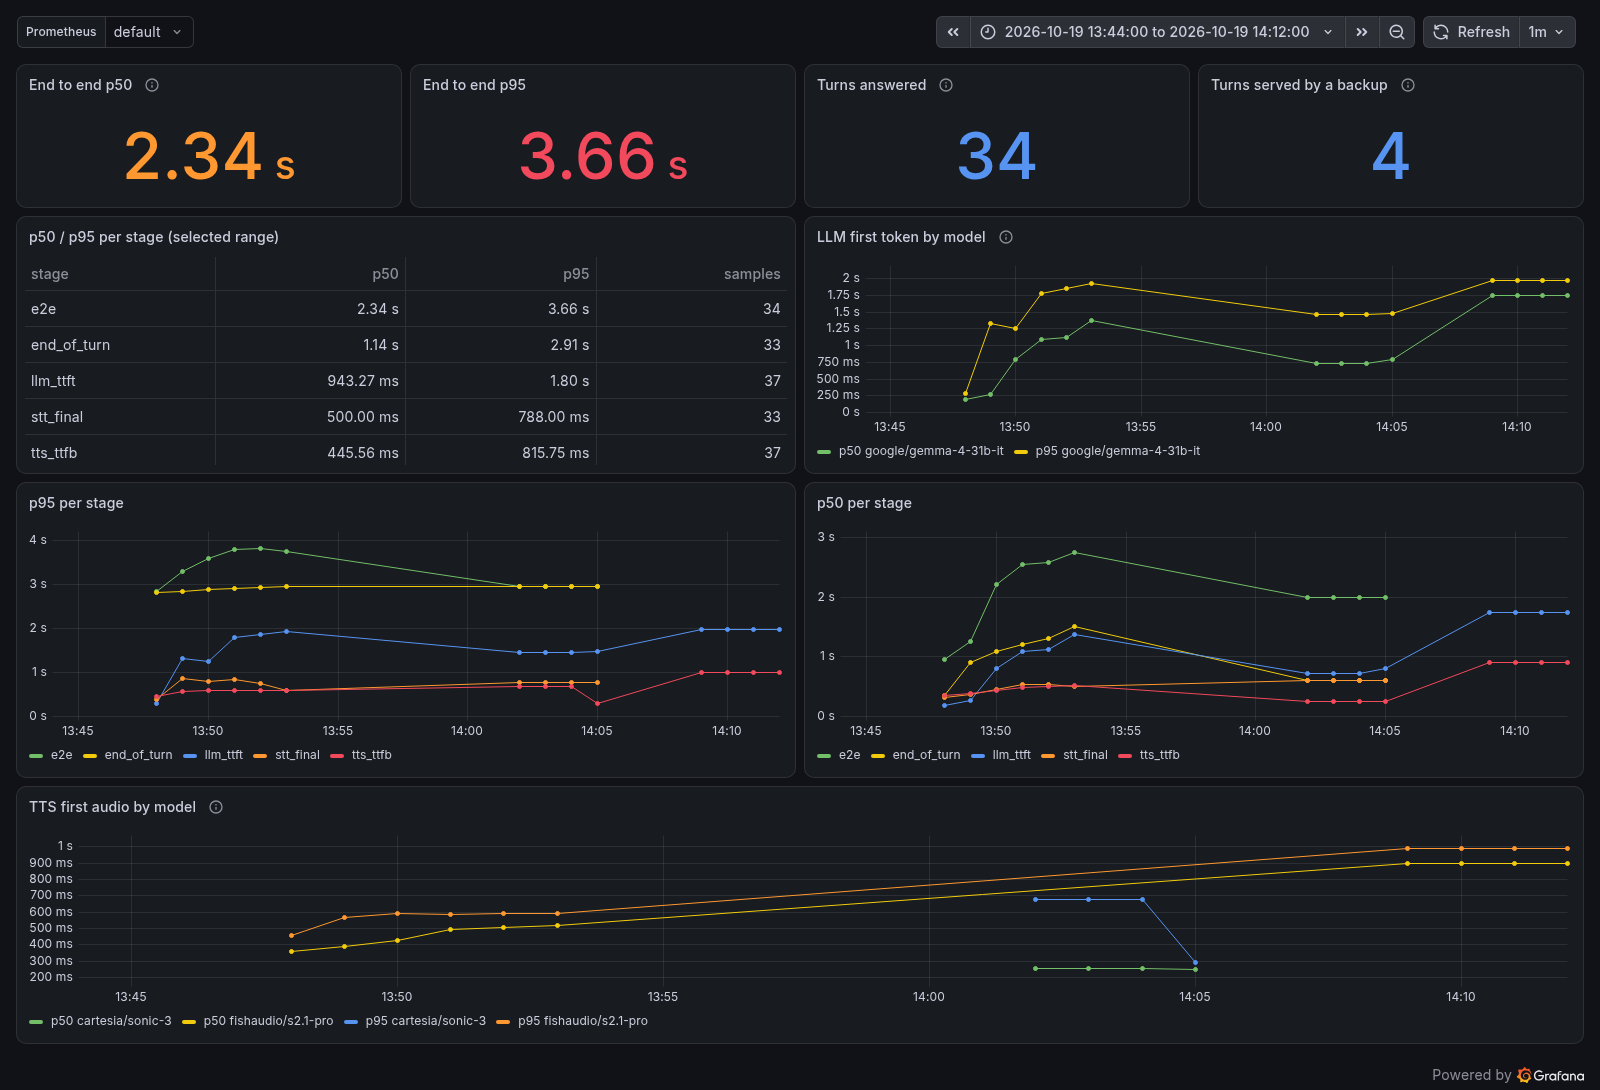
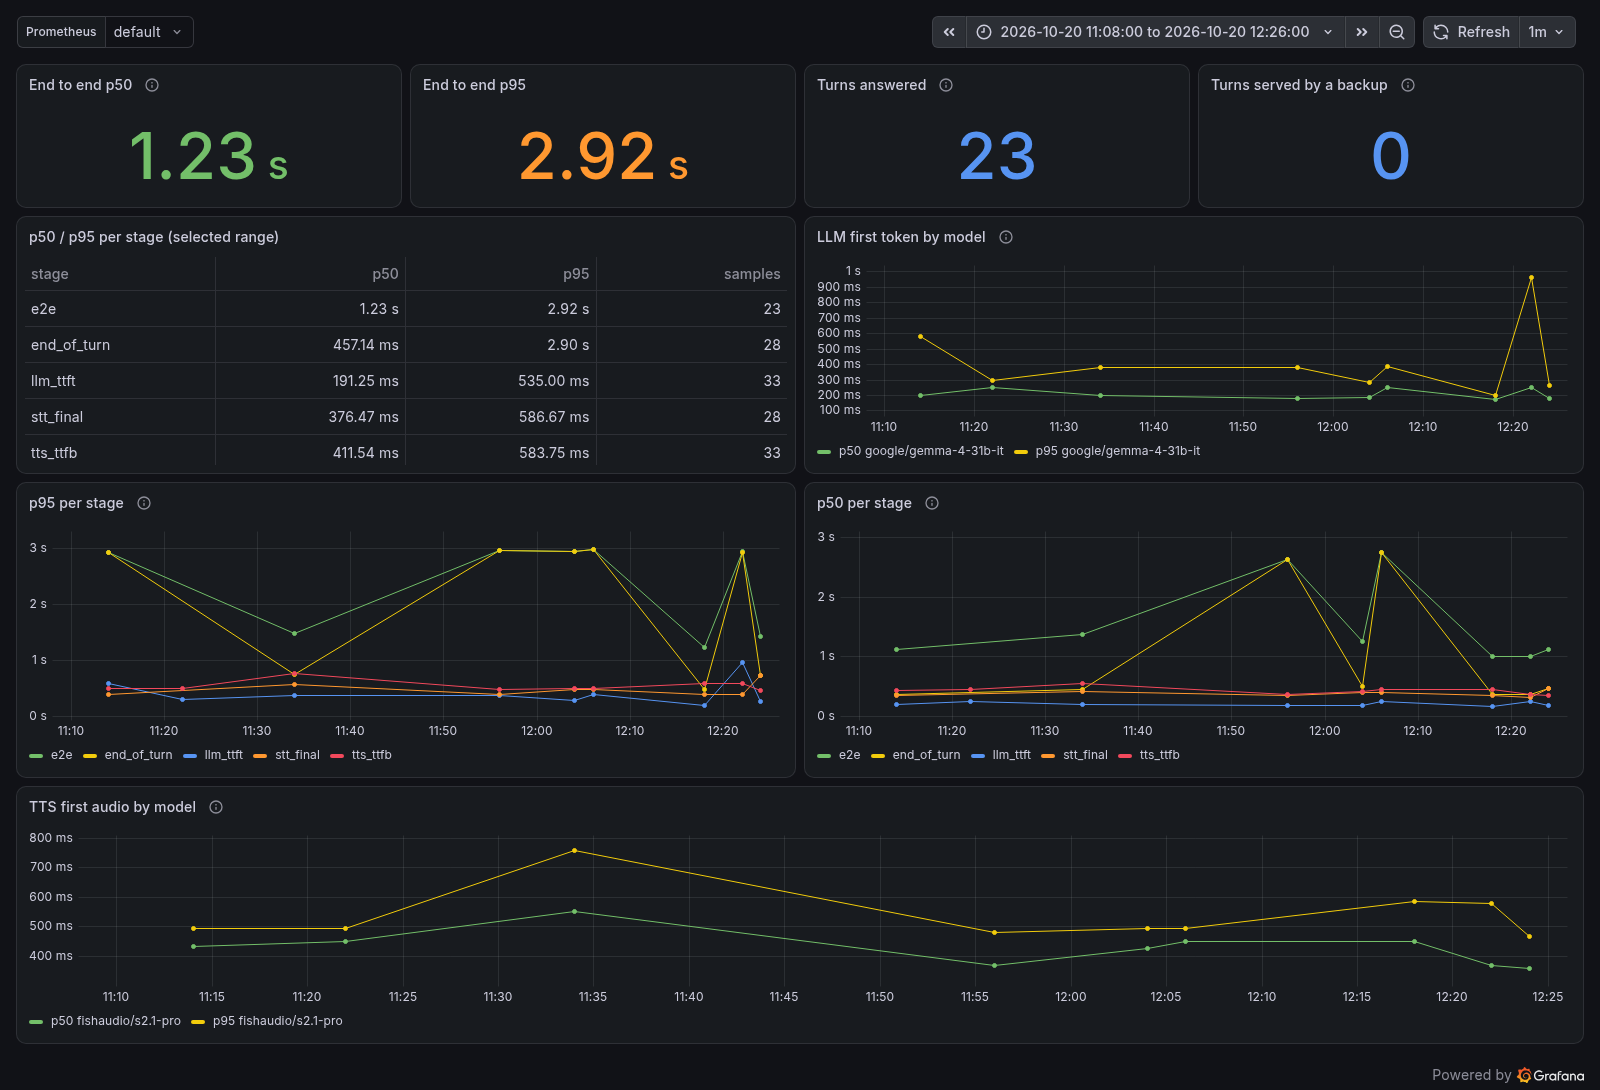
Count short calls on the dashboard; 20 Oct numbers from the hosted page
Every call is its own job process and its own series, and a call under two minutes leaves one
or two samples at a 60 s export interval. increase() and rate() need two samples and skip the
first, so the dashboard showed 0 turns for the 23 replies made on the hosted page today. The
queries now take each series' last value minus its value one window earlier (0 for a new
series); time series panels use a 2 minute minimum step. Imported as dashboard version 5.

New Grafana and LiveKit agent-insights screenshots from today's calls (e2e p50 1.2 s, LLM first
token 0.19 s, no VAD warnings), and a 20 Oct section in docs/latency-results.md: the p95 there
is the turn detector waiting its full 2.5 s, not CPU.

diff --git a/README.md b/README.md
@@ -36,18 +36,18 @@ them, and each reply shows the latency the page saw: 0.43 and 0.42 s here.
   <img alt="mini-kulu call page after two questions: caption of the last answer, transcript with reply latencies of 0.53, 0.43 and 0.42 seconds" src="docs/img/web-client-call-light.png">
 </picture>
 
-LiveKit Cloud's own agent insights for the first cloud run measure the same stages
-independently of this project's metrics (all sessions:
+LiveKit Cloud's own agent insights measure the same stages independently of this project's
+metrics. A 7-turn call on the hosted page (20 Oct), average reply ~1.06 s (all sessions:
 [docs/img/livekit-sessions.png](docs/img/livekit-sessions.png)):
 
-![LiveKit Cloud agent insights: 9 turns, waveforms, latency breakdown](docs/img/livekit-agent-insights.png)
+![LiveKit Cloud agent insights: 7 turns, waveforms, latency breakdown, average reply about 1,058 ms](docs/img/livekit-agent-insights.png)
 
 The p50/p95 dashboard ([observability/dashboard.json](observability/dashboard.json)) on Grafana
-Cloud, over the 30-turn run plus a forced voice failover (the Cartesia series and the 4 backup turns):
+Cloud, over the 9 calls made on the hosted page on 20 Oct (23 replies):
 
 <picture>
   <source media="(prefers-color-scheme: dark)" srcset="docs/img/grafana-dashboard-dark.png">
-  <img alt="Grafana dashboard: e2e p50 2.34 s, p95 3.66 s, per-stage table, LLM and TTS latency by model" src="docs/img/grafana-dashboard-light.png">
+  <img alt="Grafana dashboard: e2e p50 1.23 s, p95 2.92 s over 23 replies, per-stage table, LLM and TTS latency by model" src="docs/img/grafana-dashboard-light.png">
 </picture>
 
 ## Performance
@@ -70,6 +70,10 @@ and the p50 grows to 2.5 s. The metric and the agent's VAD warnings pinpoint it:
   <source media="(prefers-color-scheme: dark)" srcset="docs/img/stage-latency-healthy-vs-starved-dark.png">
   <img alt="Per-stage p50, healthy vs CPU-starved turns: end of turn 0.36 → 1.24 s, LLM first token 0.19 → 1.01 s, end to end 0.96 → 2.51 s" src="docs/img/stage-latency-healthy-vs-starved-light.png">
 </picture>
+
+Short calls on the hosted page (20 Oct, 23 replies, no VAD warnings) stay in the healthy band:
+e2e p50 1.2 s, LLM first token 0.19 s, first audio 0.40 s. Their p95 (2.9 s) is not CPU: in 7 of
+28 user turns the turn detector waited its full 2.5 s because the sentence sounded unfinished.
 
 Regenerate the charts: `uv run --no-project --with matplotlib python scripts/plot_latency.py docs/data/cloud-30-turns.jsonl`.
 

diff --git a/docs/latency-results.md b/docs/latency-results.md
@@ -1,5 +1,38 @@
 # Latency results
 
+## Calls on the hosted page (20 Oct 2026)
+
+Nine short calls through https://mini-kulu.esakrissa.com (Safari with a real microphone, and
+the fake-microphone screenshot runs), release `agent-117afb30d27e` on the e2-micro, VM booted
+~6 min before the first call. Agent-side numbers from the logs; Grafana (fixed dashboard, see
+below) gives the same counts and p50s within bucket interpolation.
+
+| Stage | n | p50 | p95 | max |
+|---|---|---|---|---|
+| `stt_final` | 27 | 0.38 s | 0.58 s | 0.78 s |
+| `end_of_turn` | 28 | 0.48 s | 2.50 s | 2.50 s |
+| `llm_ttft` | 33 | 0.19 s | 0.42 s | 0.87 s |
+| `tts_ttfb` | 33 | 0.40 s | 0.58 s | 0.61 s |
+| `e2e` | 23 | 1.20 s | 2.92 s | 2.94 s |
+
+Without the turns where the turn detector waited its full 2.5 s: e2e p50 1.09 s, p95 1.36 s
+(n = 16). LiveKit Cloud's agent insights agree: the 7-turn call `RM_KHSCm8SAcAzb` averages a
+~1.06 s reply, the 3-turn Safari call `RM_sanRnHqLwgVb` ~1.01 s (e2e 1.20 and 0.95 s).
+
+- **No CPU starvation**: no "slower than realtime" warnings, load 0.0 between calls; only
+  "event loop blocked" at job start (imports, 0.1–2.4 s, before the greeting). Calls of 1–2
+  minutes never use up the burst.
+- **The p95 is the turn detector.** 7 of 28 user turns hit the 2.5 s maximum endpointing delay
+  (the model judged the sentence unfinished, e.g. a trailing pause after "Can you hear me"). The
+  next lever is the endpointing delays and the turn detector's threshold, not more CPU.
+- LLM first token 0.19 s p50 (19 Oct's 30-turn run: 0.75 s while CPU-starved).
+
+**The dashboard showed nothing for these calls until it was fixed.** Every call runs in its own
+job process, so it gets its own series (`service.instance.id`), and with a 60 s export interval a
+short call leaves one or two samples. `increase()` and `rate()` need two samples and never count
+the first one, so the panels read 0 turns. The queries now take each series' last value minus its
+value one window earlier (or 0 for a new series); see [observability/README.md](../observability/README.md).
+
 ## 30-turn run with metrics in Grafana Cloud (19 Oct 2026)
 
 Same setup as below, on release `agent-af2a33983bbe` (LLM watchdog on, no failover happened),

diff --git a/observability/README.md b/observability/README.md
@@ -62,14 +62,23 @@ Grafana Cloud's free tier (10k active series, 14 days of history) is plenty: the
 
 ## Queries (PromQL)
 
-p50 / p95 per stage over the dashboard window:
+Every call runs in its own job process, so every call is a new series (`service.instance.id`).
+With a 60 s export interval a short call leaves one or two samples, and `increase()` / `rate()`
+see nothing: they need two samples and never count the first. The dashboard therefore counts
+each series' last value minus its value one window earlier, or 0 for a series that is new:
 
 ```promql
-histogram_quantile(0.95,
-  sum by (le, stage) (rate(mini_kulu_turn_stage_latency_seconds_bucket[$__rate_interval])))
+# turns per stage over the dashboard range
+sum by (stage) (
+    last_over_time(mini_kulu_turn_stage_latency_seconds_count[$__range])
+  - (last_over_time(mini_kulu_turn_stage_latency_seconds_count[$__range] offset $__range)
+     or last_over_time(mini_kulu_turn_stage_latency_seconds_count[$__range]) * 0))
 ```
 
-Turns per minute: `sum(rate(mini_kulu_turn_stage_latency_seconds_count{stage="e2e"}[5m])) * 60`
+p50 / p95 use the same difference on `_bucket` inside `histogram_quantile(0.95, sum by (le, stage) (…))`.
+The time series panels use it with `[$__interval]` and a minimum interval of 2 minutes, so each
+point holds the turns that ended in that step (a shorter window than the export interval could
+miss a sample and count a call twice).
 
 Percentiles from buckets are interpolated, so they're only as exact as the bucket edges; the
 README's latency table also lists raw p50/p95 from the synthetic caller's own measurements.
